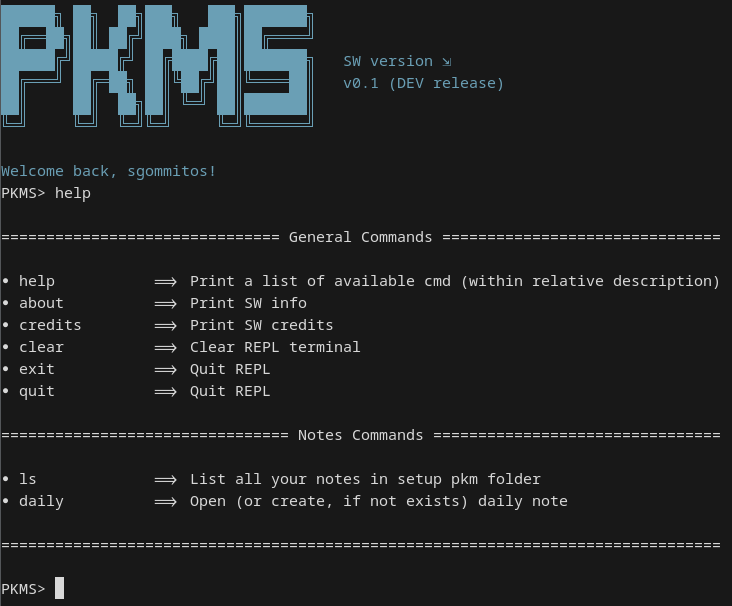
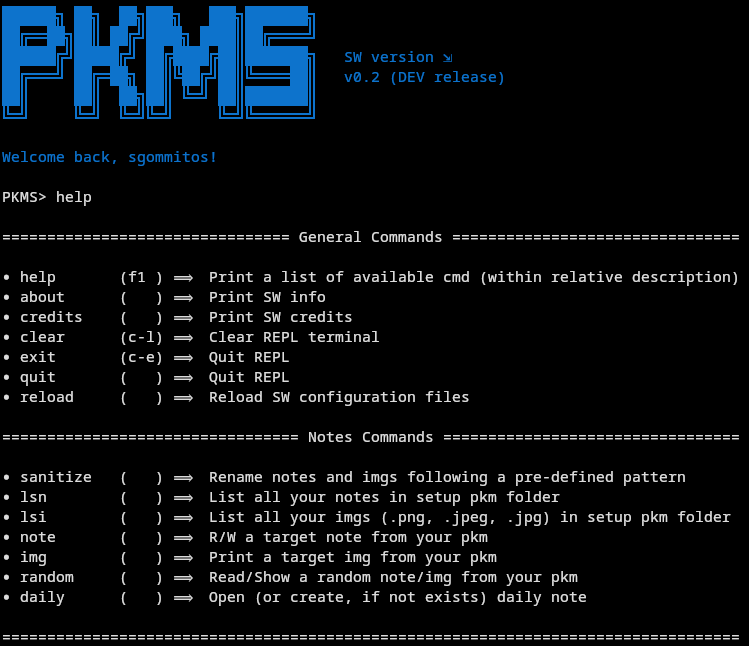
RELEASE (dev): v0.2

diff --git a/README.md b/README.md
@@ -1,7 +1,7 @@
 # README
 
 > [!WARNING] 
-> This SW is at the early stage of development ⟹ it could be affected by major changes. <br/><br/>
+> This SW is at the early stage of development (**last release: v0.2** ⟹ release page [here](https://github.com/sgommitos/PKMS/releases/)) ⟹ it could be affected by major changes. <br/><br/>
 > Also, consider that it's developed as a side-project without any pretention, so the SW architecture will grow within time (and personal needs :P). <br/><br/>
 > As i started these project during my holidays (i'm honestly writing this `README` next to the pool), i'm aware that i will need to enhanced project structure and logic. <br/><br/>
 > ***Issues*, *PR* and suggestions are always valued!**
